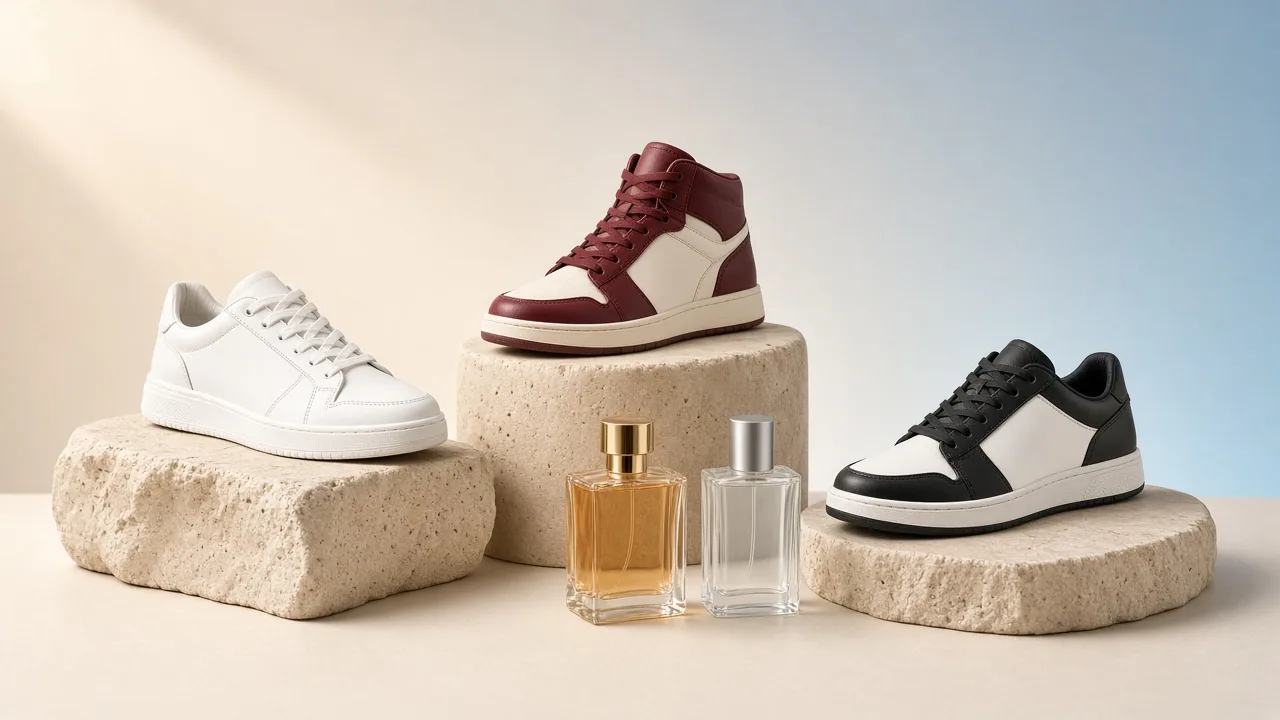
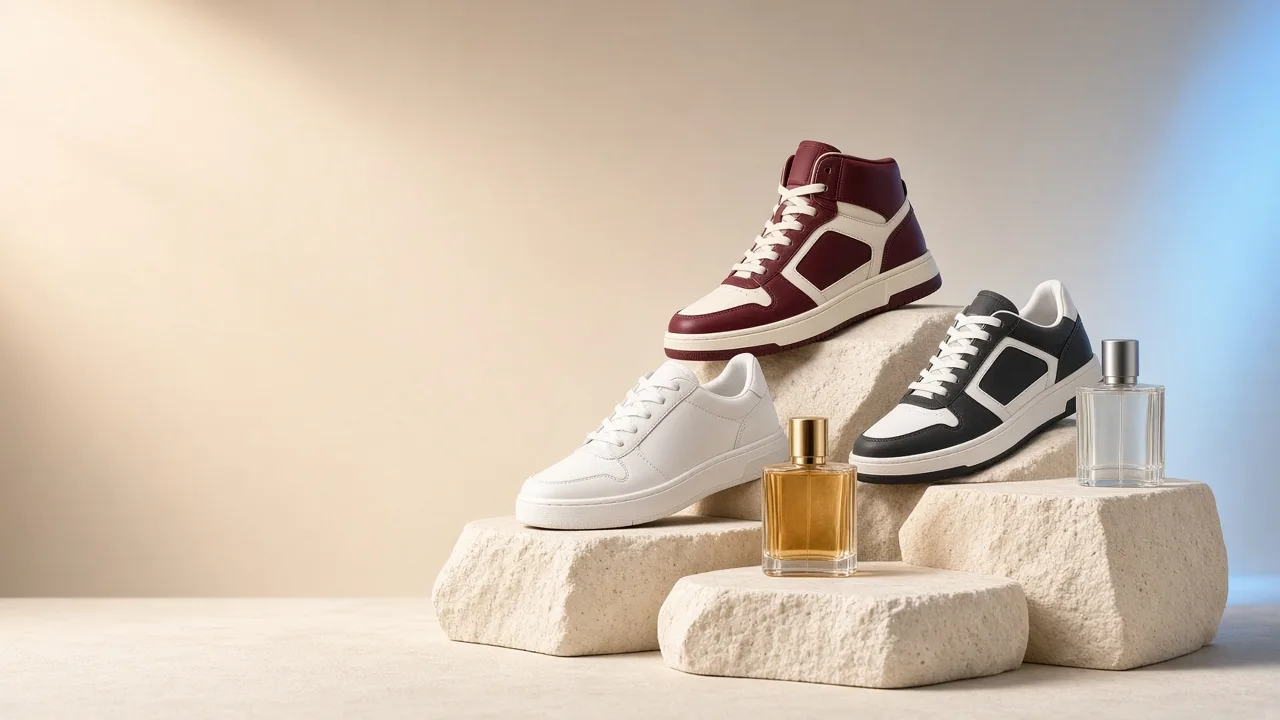
ajuste

diff --git a/src/components/HomeHero.tsx b/src/components/HomeHero.tsx
@@ -21,51 +21,57 @@ export function HomeHero({ categories }: { categories: SiteCategory[] }) {
 
   return (
     <section aria-label="Destaques da loja">
-      {/* Mobile mostra a arte inteira (16/9); telas maiores cortam altura para nao empurrar a loja. */}
-      <div className="relative aspect-[16/9] w-full overflow-hidden bg-sand sm:aspect-[21/9] lg:aspect-[5/2] xl:aspect-[3/1]">
+      <div className="relative isolate w-full overflow-hidden bg-sand">
         <img
           src={isDefaultImage ? heroImage : optimizeCloudinaryUrl(heroImage, 1920)}
           alt={isDefaultImage ? 'Tênis e perfumes em cenário bege' : settings.hero_title || settings.store_name}
           fetchPriority="high"
           decoding="async"
-          // Arte enviada pela loja costuma ter texto/logo embutido: `contain` evita cortar.
-          className={cn(
-            'absolute inset-0 h-full w-full',
-            isDefaultImage ? 'object-cover object-[center_62%]' : 'object-contain',
-          )}
+          // A arte padrao deixa a metade esquerda vazia: deslocar o enquadramento mantem os produtos visiveis.
+          className={cn('absolute inset-0 -z-10 h-full w-full object-cover', isDefaultImage && 'object-[72%_center]')}
         />
-      </div>
 
-      <div className="container mt-8 flex flex-col items-center text-center sm:mt-10">
-        {settings.hero_eyebrow && (
-          <p className="inline-flex items-center gap-2 rounded-full border border-line bg-white px-3.5 py-1.5 text-xs font-bold uppercase tracking-[0.08em] text-ink shadow-sm">
-            <span className="h-2 w-2 rounded-full bg-brand" aria-hidden />
-            {settings.hero_eyebrow}
-          </p>
-        )}
+        {/* Veu claro para o texto escuro continuar legivel sobre a foto. */}
+        <div
+          className="absolute inset-0 -z-10 bg-gradient-to-b from-white/95 via-white/80 to-white/40 sm:bg-gradient-to-r sm:from-white/95 sm:via-white/75 sm:to-transparent"
+          aria-hidden
+        />
 
-        <h1 className="mt-4 max-w-3xl text-balance text-[2rem] font-extrabold leading-[1.05] tracking-tight text-ink sm:text-[2.75rem] lg:text-5xl">
-          {settings.hero_title}
-          {settings.hero_title_highlight && <span className="block text-brand">{settings.hero_title_highlight}</span>}
-        </h1>
+        <div className="container flex min-h-[420px] flex-col justify-center py-12 sm:min-h-[440px] sm:py-14 lg:min-h-[520px] lg:py-16">
+          <div className="max-w-xl">
+            {settings.hero_eyebrow && (
+              <p className="inline-flex items-center gap-2 rounded-full bg-white px-3.5 py-1.5 text-xs font-bold uppercase tracking-[0.08em] text-ink shadow-sm">
+                <span className="h-2 w-2 rounded-full bg-brand" aria-hidden />
+                {settings.hero_eyebrow}
+              </p>
+            )}
 
-        {settings.hero_subtitle && (
-          <p className="mt-4 max-w-xl text-[15px] font-medium leading-relaxed text-ink-soft sm:text-base">
-            {settings.hero_subtitle}
-          </p>
-        )}
+            <h1 className="mt-5 text-balance text-[2.125rem] font-extrabold leading-[1.05] tracking-tight text-ink sm:text-[2.75rem] lg:text-[3.25rem]">
+              {settings.hero_title}
+              {settings.hero_title_highlight && (
+                <span className="block text-brand">{settings.hero_title_highlight}</span>
+              )}
+            </h1>
 
-        <div className="mt-7 flex w-full flex-col gap-3 sm:w-auto sm:flex-row sm:flex-wrap sm:justify-center">
-          <HomeCta to="/catalogo" size="lg">
-            {settings.hero_cta_label || 'Ver produtos'}
-          </HomeCta>
-          <HomeCta href="#atacado" variant="secondary" size="lg">
-            Comprar no atacado
-          </HomeCta>
+            {settings.hero_subtitle && (
+              <p className="mt-4 max-w-md text-[15px] font-medium leading-relaxed text-ink-soft sm:text-base">
+                {settings.hero_subtitle}
+              </p>
+            )}
+
+            <div className="mt-8 flex flex-col gap-3 sm:flex-row sm:flex-wrap">
+              <HomeCta to="/catalogo" size="lg">
+                {settings.hero_cta_label || 'Ver produtos'}
+              </HomeCta>
+              <HomeCta href="#atacado" variant="secondary" size="lg">
+                Comprar no atacado
+              </HomeCta>
+            </div>
+          </div>
         </div>
       </div>
 
-      <div className="container mt-9 grid grid-cols-2 gap-3 sm:mt-12 sm:gap-4">
+      <div className="container mt-6 grid grid-cols-2 gap-3 sm:mt-8 sm:gap-4">
         {homeCollections.map((collection) => (
           <HeroTile key={collection.key} collection={collection} to={homeCollectionPath(collection, categories)} />
         ))}
